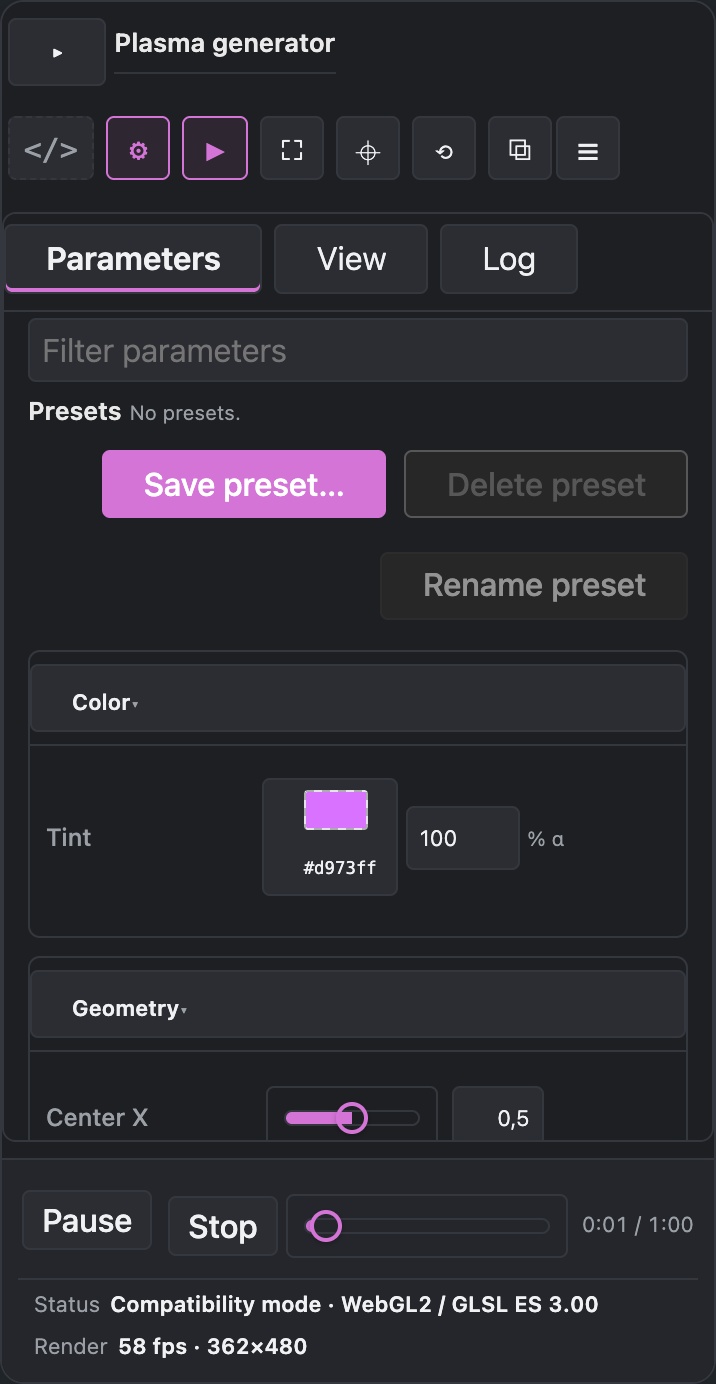
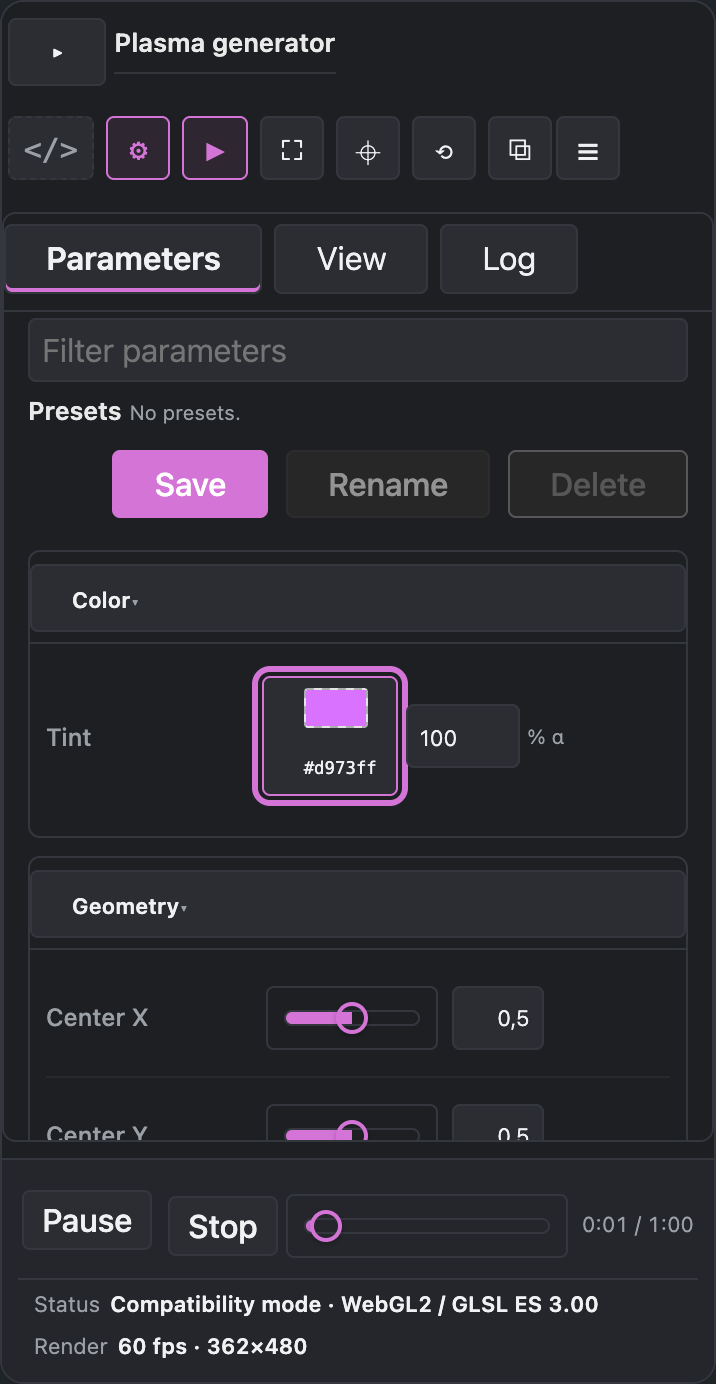
feat(ui): complete workbench audit and release 1.45.10

diff --git a/src/plugin.src.js b/src/plugin.src.js
@@ -1,5 +1,5 @@
 /*!
- * docsify-isf v1.45.9
+ * docsify-isf v1.45.10
  * Interactive Shader Format (ISF) viewer for Docsify.
  *
  * Converts markdown links to `.fs` files into interactive WebGL viewers with
@@ -48,7 +48,7 @@
     /* @isf-core:inject — the vendored kernel bundle and adapter are generated here by tools/build.mjs */
     /* @pupitre-ui:inject — the vendored PUI renderer, ISF adapter and CSS are generated here by tools/build.mjs */
 
-    var VERSION = "1.45.9";
+    var VERSION = "1.45.10";
     var VIEWER_SEQ = 0;
     var SCRIPT_SRC = (typeof document !== "undefined" && document.currentScript && document.currentScript.src) || "";
     var PUI_BASE = "";
@@ -3658,12 +3658,13 @@
             ".isf-workbench .pui-workbench-pane.is-left .pui-slot[data-pui-slot=\"isf.editor\"]{padding:0;border:0;border-radius:0}",
             ".isf-workbench .pui-workbench-pane.is-right .pui-workbench-pane-content{padding:0}",
             ".isf-workbench .pui-workbench-pane.is-right .pui-slot[data-pui-slot=\"isf.params\"]{padding:0;border:0;border-radius:0}",
-            ".isf-workbench .pui-workbench-pane.is-left .pui-workbench-pane-title{font-size:0;padding:3px 8px;min-height:24px}",
+            ".isf-workbench .pui-workbench-pane.is-left .pui-workbench-pane-title{position:relative;font-size:0;padding:3px 34px 3px 8px;min-height:24px}",
             ".isf-workbench .isf-editor{height:auto!important;min-height:0;flex:1 1 auto!important}",
             ".isf-workbench .isf-editor-wrap > .isf-resize-y{display:none}",
             ".isf-workbench .isf-editor-toolbar{flex-wrap:nowrap;padding:.22rem .35rem;gap:.22rem;min-height:34px}",
             ".isf-workbench .isf-editor-actions{flex:0 0 auto;flex-wrap:nowrap;max-width:none;gap:.2rem;margin-inline-start:auto}",
-            ".isf-workbench .pui-workbench-pane.is-left .pui-workbench-pane-title .isf-editor-more{flex:0 0 auto;margin-inline-start:4px}",
+            ".isf-workbench .pui-workbench-pane.is-left .pui-workbench-pane-title .isf-editor-more{display:inline-flex;align-items:center;justify-content:center;flex:0 0 auto;position:absolute;inset-inline-end:6px;top:50%;transform:translateY(-50%);width:24px;min-width:24px;margin:0;z-index:2}",
+            ".isf-workbench .pui-workbench-pane.is-left .pui-workbench-pane-title .isf-editor-more > .pui{width:24px;flex:0 0 24px}",
             ".isf-workbench .pui-workbench-pane.is-left .pui-workbench-pane-title .isf-editor-more .pui-menu-popup{inset-inline-start:auto;inset-inline-end:0}",
             ".isf-workbench .pui-workbench-pane.is-left .pui-workbench-pane-title .isf-editor-more .pui-menu-trigger{min-width:24px;min-height:24px;padding:1px 4px}",
             ".isf-workbench .isf-editor-tabs{gap:.15rem}",
@@ -3721,6 +3722,7 @@
             ".isf-overlay-btn{margin-top:.6rem;border:1px solid rgba(255,255,255,.35);background:rgba(255,255,255,.12);color:#fff;border-radius:7px;padding:.35rem .7rem;font-size:.8rem;cursor:pointer}",
             ".isf-overlay-btn:hover{background:rgba(255,255,255,.2)}",
             ".isf-overlay.isf-overlay-help{position:fixed;inset:0;z-index:2147483002;padding:clamp(.75rem,4vw,2.5rem);overflow:auto;background:rgba(10,11,14,.86);align-items:flex-start}",
+            ".isf-block.isf-help-open{contain:none;overflow:visible}",
             ".isf-overlay.isf-overlay-help .isf-overlay-inner{max-width:min(34rem,94vw);max-height:calc(100dvh - 2rem);overflow:auto;margin:auto;padding:1rem 1.1rem;border:1px solid var(--isf-border);border-radius:10px;background:var(--isf-surface);color:var(--isf-text);box-shadow:0 24px 60px rgba(0,0,0,.5);text-align:left}",
             ".isf-overlay.isf-overlay-help .isf-shortcuts{max-height:none;overflow:visible}",
             ".isf-overlay.isf-overlay-help .isf-shortcut kbd{color:var(--isf-accent)}",
@@ -4466,17 +4468,17 @@
                             select: "/isf/presetSelected",
                             recall: {label: "Load preset", call: "isf.presets.recall"},
                             save: {
-                                label: "Save preset…",
+                                label: "Save",
                                 call: "isf.presets.save",
                                 style: "primary",
                                 inputs: [{name: "name", label: "Preset name", type: "text", required: true}]
                             },
                             rename: {
-                                label: "Rename preset",
+                                label: "Rename",
                                 call: "isf.presets.rename",
                                 inputs: [{name: "name", label: "New preset name", type: "text", required: true}]
                             },
-                            delete: {label: "Delete preset", call: "isf.presets.delete", confirm: true, style: "danger"}
+                            delete: {label: "Delete", call: "isf.presets.delete", confirm: true, style: "danger"}
                         }
                     }]
                 }].concat(page.sections);
@@ -6437,7 +6439,18 @@
         viewer.showOverlay = function (html, show) {
             overlayInner.innerHTML = html || "";
             overlay.style.display = show ? "flex" : "none";
-            overlay.classList.toggle("isf-overlay-help", !!show && /isf-shortcuts/.test(String(html || "")));
+            var help = !!show && /isf-shortcuts/.test(String(html || ""));
+            overlay.classList.toggle("isf-overlay-help", help);
+            if (viewer.dom.block) viewer.dom.block.classList.toggle("isf-help-open", help);
+            if (help) {
+                try {
+                    if (viewer.puiWorkbench && viewer.puiWorkbench.ui.hideTooltips) viewer.puiWorkbench.ui.hideTooltips();
+                } catch (error) { /* ignore */ }
+                requestAnimationFrame(function () {
+                    var close = overlay.querySelector('[data-isf-overlay="close"]');
+                    if (close) close.focus();
+                });
+            }
         };
         function setInspectorPanel() {
             if (paramsPanel) paramsPanel.classList.remove("isf-hidden");

diff --git a/docsify-isf.js b/docsify-isf.js
@@ -1,5 +1,5 @@
 /*!
- * docsify-isf v1.45.9
+ * docsify-isf v1.45.10
  * Interactive Shader Format (ISF) viewer for Docsify.
  *
  * Converts markdown links to `.fs` files into interactive WebGL viewers with
@@ -3884,7 +3884,7 @@
     }
     /* @pupitre-ui:inject — the vendored PUI renderer, ISF adapter and CSS are generated here by tools/build.mjs */
 
-    var VERSION = "1.45.9";
+    var VERSION = "1.45.10";
     var VIEWER_SEQ = 0;
     var SCRIPT_SRC = (typeof document !== "undefined" && document.currentScript && document.currentScript.src) || "";
     var PUI_BASE = "";
@@ -5538,12 +5538,13 @@
             ".isf-workbench .pui-workbench-pane.is-left .pui-slot[data-pui-slot=\"isf.editor\"]{padding:0;border:0;border-radius:0}",
             ".isf-workbench .pui-workbench-pane.is-right .pui-workbench-pane-content{padding:0}",
             ".isf-workbench .pui-workbench-pane.is-right .pui-slot[data-pui-slot=\"isf.params\"]{padding:0;border:0;border-radius:0}",
-            ".isf-workbench .pui-workbench-pane.is-left .pui-workbench-pane-title{font-size:0;padding:3px 8px;min-height:24px}",
+            ".isf-workbench .pui-workbench-pane.is-left .pui-workbench-pane-title{position:relative;font-size:0;padding:3px 34px 3px 8px;min-height:24px}",
             ".isf-workbench .isf-editor{height:auto!important;min-height:0;flex:1 1 auto!important}",
             ".isf-workbench .isf-editor-wrap > .isf-resize-y{display:none}",
             ".isf-workbench .isf-editor-toolbar{flex-wrap:nowrap;padding:.22rem .35rem;gap:.22rem;min-height:34px}",
             ".isf-workbench .isf-editor-actions{flex:0 0 auto;flex-wrap:nowrap;max-width:none;gap:.2rem;margin-inline-start:auto}",
-            ".isf-workbench .pui-workbench-pane.is-left .pui-workbench-pane-title .isf-editor-more{flex:0 0 auto;margin-inline-start:4px}",
+            ".isf-workbench .pui-workbench-pane.is-left .pui-workbench-pane-title .isf-editor-more{display:inline-flex;align-items:center;justify-content:center;flex:0 0 auto;position:absolute;inset-inline-end:6px;top:50%;transform:translateY(-50%);width:24px;min-width:24px;margin:0;z-index:2}",
+            ".isf-workbench .pui-workbench-pane.is-left .pui-workbench-pane-title .isf-editor-more > .pui{width:24px;flex:0 0 24px}",
             ".isf-workbench .pui-workbench-pane.is-left .pui-workbench-pane-title .isf-editor-more .pui-menu-popup{inset-inline-start:auto;inset-inline-end:0}",
             ".isf-workbench .pui-workbench-pane.is-left .pui-workbench-pane-title .isf-editor-more .pui-menu-trigger{min-width:24px;min-height:24px;padding:1px 4px}",
             ".isf-workbench .isf-editor-tabs{gap:.15rem}",
@@ -5601,6 +5602,7 @@
             ".isf-overlay-btn{margin-top:.6rem;border:1px solid rgba(255,255,255,.35);background:rgba(255,255,255,.12);color:#fff;border-radius:7px;padding:.35rem .7rem;font-size:.8rem;cursor:pointer}",
             ".isf-overlay-btn:hover{background:rgba(255,255,255,.2)}",
             ".isf-overlay.isf-overlay-help{position:fixed;inset:0;z-index:2147483002;padding:clamp(.75rem,4vw,2.5rem);overflow:auto;background:rgba(10,11,14,.86);align-items:flex-start}",
+            ".isf-block.isf-help-open{contain:none;overflow:visible}",
             ".isf-overlay.isf-overlay-help .isf-overlay-inner{max-width:min(34rem,94vw);max-height:calc(100dvh - 2rem);overflow:auto;margin:auto;padding:1rem 1.1rem;border:1px solid var(--isf-border);border-radius:10px;background:var(--isf-surface);color:var(--isf-text);box-shadow:0 24px 60px rgba(0,0,0,.5);text-align:left}",
             ".isf-overlay.isf-overlay-help .isf-shortcuts{max-height:none;overflow:visible}",
             ".isf-overlay.isf-overlay-help .isf-shortcut kbd{color:var(--isf-accent)}",
@@ -6346,17 +6348,17 @@
                             select: "/isf/presetSelected",
                             recall: {label: "Load preset", call: "isf.presets.recall"},
                             save: {
-                                label: "Save preset…",
+                                label: "Save",
                                 call: "isf.presets.save",
                                 style: "primary",
                                 inputs: [{name: "name", label: "Preset name", type: "text", required: true}]
                             },
                             rename: {
-                                label: "Rename preset",
+                                label: "Rename",
                                 call: "isf.presets.rename",
                                 inputs: [{name: "name", label: "New preset name", type: "text", required: true}]
                             },
-                            delete: {label: "Delete preset", call: "isf.presets.delete", confirm: true, style: "danger"}
+                            delete: {label: "Delete", call: "isf.presets.delete", confirm: true, style: "danger"}
                         }
                     }]
                 }].concat(page.sections);
@@ -8317,7 +8319,18 @@
         viewer.showOverlay = function (html, show) {
             overlayInner.innerHTML = html || "";
             overlay.style.display = show ? "flex" : "none";
-            overlay.classList.toggle("isf-overlay-help", !!show && /isf-shortcuts/.test(String(html || "")));
+            var help = !!show && /isf-shortcuts/.test(String(html || ""));
+            overlay.classList.toggle("isf-overlay-help", help);
+            if (viewer.dom.block) viewer.dom.block.classList.toggle("isf-help-open", help);
+            if (help) {
+                try {
+                    if (viewer.puiWorkbench && viewer.puiWorkbench.ui.hideTooltips) viewer.puiWorkbench.ui.hideTooltips();
+                } catch (error) { /* ignore */ }
+                requestAnimationFrame(function () {
+                    var close = overlay.querySelector('[data-isf-overlay="close"]');
+                    if (close) close.focus();
+                });
+            }
         };
         function setInspectorPanel() {
             if (paramsPanel) paramsPanel.classList.remove("isf-hidden");

diff --git a/README.md b/README.md
@@ -253,9 +253,9 @@ renderer, the source editor/import surface, the View controls and the ISF
 values.
 
 The workbench title bar labels the shader with an ISF **eyebrow**, its
-**title** and ISF **description**, and adds a PUI 1.18.3 **collapsible title
+**title** and ISF **description**, and adds a PUI 1.18.6 **collapsible title
 bar**, compact by default. Pane toggles and direct actions are icon-only (`</>`, `⚙`, `▶`,
-fullscreen, focus, reset, share, menu) with accessible names. PUI 1.18.3 gives
+fullscreen, focus, reset, share, menu) with accessible names. PUI 1.18.6 gives
 them hover/focus tooltips and a touch long-press label; the long press never
 activates the control. Active panes use the accent state. The description is one ellipsized line by default,
 so the identity row stays compact. Collapsing
@@ -287,8 +287,8 @@ Only one Parameters pane is open across viewers at a time, so panels never stack
 `params:"auto"` opens Parameters for the in-view viewer only and never steals
 another open one.
 
-The renderer/adapter are vendored from the clean PUI **1.18.3** release
-(commit `c209d74`, upstream tag `v1.18.3`). The workbench titlebar contract
+The renderer/adapter are vendored from the clean PUI **1.18.6** release
+(commit `6dc092d`, upstream tag `v1.18.6`). The workbench titlebar contract
 (`description`, collapsible heading, controls retained) is upstream in
 `spec/WORKBENCH.md`; no host
 positioning or title-bar CSS is required. Before PUI mounts — and when a shader
@@ -408,7 +408,7 @@ persist with the layout and can be overridden from the URL (`isf-res`,
   `point2D`/`color` components stay in range. Out-of-range typing is corrected
   on change and flagged with `aria-invalid` while editing.
 - The workbench titlebar shows the shader **title** and ISF **description**.
-  Its collapse control (PUI 1.18.3) hides the description and keeps a compact
+  Its collapse control (PUI 1.18.6) hides the description and keeps a compact
   title, the function buttons, pane toggles and Header menu. The Menu is the home for fullscreen,
   reset, randomize, export, share, help and source.
 - **Source** (left) and **Parameters** (right) are independently shown/hidden
@@ -426,21 +426,21 @@ persist with the layout and can be overridden from the URL (`isf-res`,
 - The Source pane title carries a compact compile-status dot and `Ln x, Col y`
   when the editor chrome is folded at narrow widths; the full editor status
   remains aria-live.
-- The Parameters pane has a **Presets** block above the fields: Save preset…
-  asks for a name, the saved look is recalled by selecting it, Rename updates
-  the selected label, and Delete is confirmed. Presets store non-media values per shader URL (PUI owns the list
+- The Parameters pane has a **Presets** block above the fields: **Save**
+  asks for a name, the saved look is recalled by selecting it, **Rename** updates
+  the selected label, and **Delete** is confirmed. Presets store non-media values per shader URL (PUI owns the list
   and forms; the host owns values and persistence). Two viewers of the same
   shader share the list without a reload.
 - PUI dialogs (save/confirm/palette) copy the active PUI surface/text/font
   tokens, so they remain opaque on host pages whose tokens live on the PUI
-  root. This is PUI 1.18.3.
+  root. This is PUI 1.18.6.
 - The titlebar defaults to the compact 41 px identity row; expanding it restores
   the ISF eyebrow and one-line description. The Source header keeps only the
   compile dot + `Ln x, Col y` and the secondary More menu; the Source toolbar is
   one row (fold, Fragment/Vertex, Apply). The fold no longer freezes the editor
   width or height: the code follows pane resizes and scrolls internally.
 - PUI's compact parameter density renders labels beside controls (one row per
-  scalar), with `Presets` above. PUI 1.18.3 stretches custom slots and clamps
+  scalar), with `Presets` above. PUI 1.18.6 stretches custom slots and clamps
   menu popovers at the viewport edge.
 - Larger input sets are grouped into type disclosures (Media, Color, Geometry,
   Values, Constants) with a persisted open state; `GROUP`/`input.group` wins

diff --git a/SDD.md b/SDD.md
@@ -409,7 +409,7 @@ the eyebrow and one-line description. Pane toggles carry decorative host glyphs 
 tooltips; labels stay visually hidden at every width. Collapsing hides the
 eyebrow/description and
 keeps a compact one-line title; the Menu, Source, Parameters and Playback
-buttons remain. This is PUI 1.18.3's `layout.titlebar` contract; the
+buttons remain. This is PUI 1.18.6's `layout.titlebar` contract; the
 host only supplies the title/description and the page's workbench document.
 The buttons are the show/hide controls for the Source and Parameters sections.
 
@@ -448,7 +448,7 @@ Density decisions:
 - The right pane's tab bar is its heading; the stage's "Preview" label is
   redundant too. Both pane titles are visually hidden but kept for accessible
   names.
-- PUI compact density puts labels beside controls; PUI 1.18.3 stretches custom
+- PUI compact density puts labels beside controls; PUI 1.18.6 stretches custom
   slots to their container and flips menu popups at the viewport edge.
 - The Parameters tab is led by the host-owned **Presets** block implemented
   with PUI's `presets`/`storage` contract. Presets are named snapshots of
@@ -457,9 +457,11 @@ Density decisions:
   and applies the stored values; delete is confirmed. The host owns values and storage;
   PUI owns the list, forms and confirmation. The preset list stays local to the
   viewer but is copied to other mounted viewers of the same shader.
-- PUI dialogs are body-hosted; PUI 1.18.3 copies the active surface/text/font
-  tokens into them so action forms, confirmations and the command palette keep
-  their panel outside the PUI root.
+- PUI dialogs are body-hosted; PUI 1.18.6 copies the active surface/text/font
+  tokens into them, and falls back to the nearest opaque ancestor surface when
+  the host intentionally makes the embedded PUI root transparent. Action
+  forms, confirmations and the command palette therefore stay opaque outside
+  the PUI root.
 - Input sets of six or more are grouped into PUI disclosures by type
   (Media, Color, Geometry, Values, Constants) when `paramGroups` is `"auto"`;
   `"always"` groups every size, and `false`/`"never"` keeps the flat list. A
@@ -499,7 +501,7 @@ Density decisions:
 - Active pane toggles use the PUI accent border and the selected Parameters/
   View/Log tab uses an accent underline; the titlebar collapse keeps a compact
   title and removes the description only.
-- PUI 1.18.3 owns a delegated tooltip manager for flagged icon-only chrome:
+- PUI 1.18.6 owns a delegated tooltip manager for flagged icon-only chrome:
   titlebar collapse/pane/action/header-menu triggers, PUI menu triggers, the
   host HUD and the fold control. Hover waits 320 ms, focus is immediate, and a
   450 ms touch long-press shows the label without activating the button. The

diff --git a/docs/UI_ERGONOMICS.md b/docs/UI_ERGONOMICS.md
@@ -1,6 +1,6 @@
 # UI ergonomics audit — ISF workbench
 
-**Scope:** docsify-isf viewer workbench · **Updated:** 2026-11-03 · **PUI:** 1.18.3 · **docsify-isf:** 1.45.8
+**Scope:** docsify-isf viewer workbench · **Updated:** 2026-11-03 · **PUI:** 1.18.6 · **docsify-isf:** 1.45.10
 **Captures:** [`ui-audit/`](ui-audit/) · **Reproduce:** `node tools/ui-audit.mjs`
 
 This audit covers the embedded workbench, not the surrounding Docsify page. It
@@ -19,10 +19,12 @@ checked against established editor/workbench implementations.
 | Desktop, saved preset | ![desktop presets](ui-audit/desktop-presets.png) |
 | Desktop, command palette | ![desktop palette](ui-audit/desktop-palette.png) |
 | Desktop, title bar compact (default) | ![desktop default](ui-audit/desktop-default.png) |
+| Desktop, light theme | ![desktop light](ui-audit/desktop-light.png) |
 | Desktop, title bar expanded | ![desktop expanded](ui-audit/desktop-expanded.png) |
 | Desktop, shortcuts help | ![desktop help](ui-audit/desktop-help.png) |
 | Desktop, Focus preview | ![desktop focus](ui-audit/desktop-focus.png) |
 | Desktop, fullscreen | ![desktop fullscreen](ui-audit/desktop-fullscreen.png) |
+| Tablet, Parameters | ![tablet default](ui-audit/tablet-default.png) |
 | Phone, Parameters | ![mobile parameters](ui-audit/mobile-parameters.png) |
 | Phone, Source | ![mobile source](ui-audit/mobile-source.png) |
 | Phone, stage HUD | ![mobile stage](ui-audit/mobile-stage.png) |
@@ -272,6 +274,22 @@ The second full capture review found and fixed:
 - The smoke test now scrolls the grouped row into view and asserts the pointer
   actually hits the speed slider before dragging; the previous test could grab
   the Playback scrubber when the Parameters pane was scrolled.
+
+## 4.9 Workbench audit (1.45.10)
+
+- The Source header's More trigger is absolutely anchored inside the pane and
+  the caret/status leaves room for it; the phone layout hit-tests the trigger
+  before opening the menu.
+- The keyboard-shortcuts overlay escapes the block's containment while open,
+  so it is fixed to the viewport, its Close button is reachable and focused,
+  and any stale tooltip is dismissed before the modal appears.
+- PUI 1.18.5 gives body-hosted dialogs an opaque surface fallback when the host
+  uses transparent embedded surfaces; the mobile command palette is no longer
+  see-through.
+- PUI 1.18.6 orders preset storage actions **Save, Rename, Delete** and the
+  compact single row keeps the destructive action last.
+- Added tablet (820 px) and light-theme captures alongside the desktop and
+  phone matrix.
 
 ## 4.3 Runtime cost controls
 

diff --git a/AGENTS.md b/AGENTS.md
@@ -62,7 +62,7 @@ Start with the root [`../AGENTS.md`](../AGENTS.md), then:
   geometry must first assert the pane is open with non-zero width; CI can enter
   the narrow one-pane mode.
 - **Tooltips are PUI-owned.** Flag icon-only controls with
-  `data-pui-tooltip`; PUI 1.18.3 provides hover/focus/long-press labels, touch
+  `data-pui-tooltip`; PUI 1.18.6 provides hover/focus/long-press labels, touch
   click suppression, theme-token copying and document/fullscreen hosting. Never
   add a second tooltip manager per viewer. A long press must not activate the
   control, and a following mouse/pen press must not stay suppressed.
